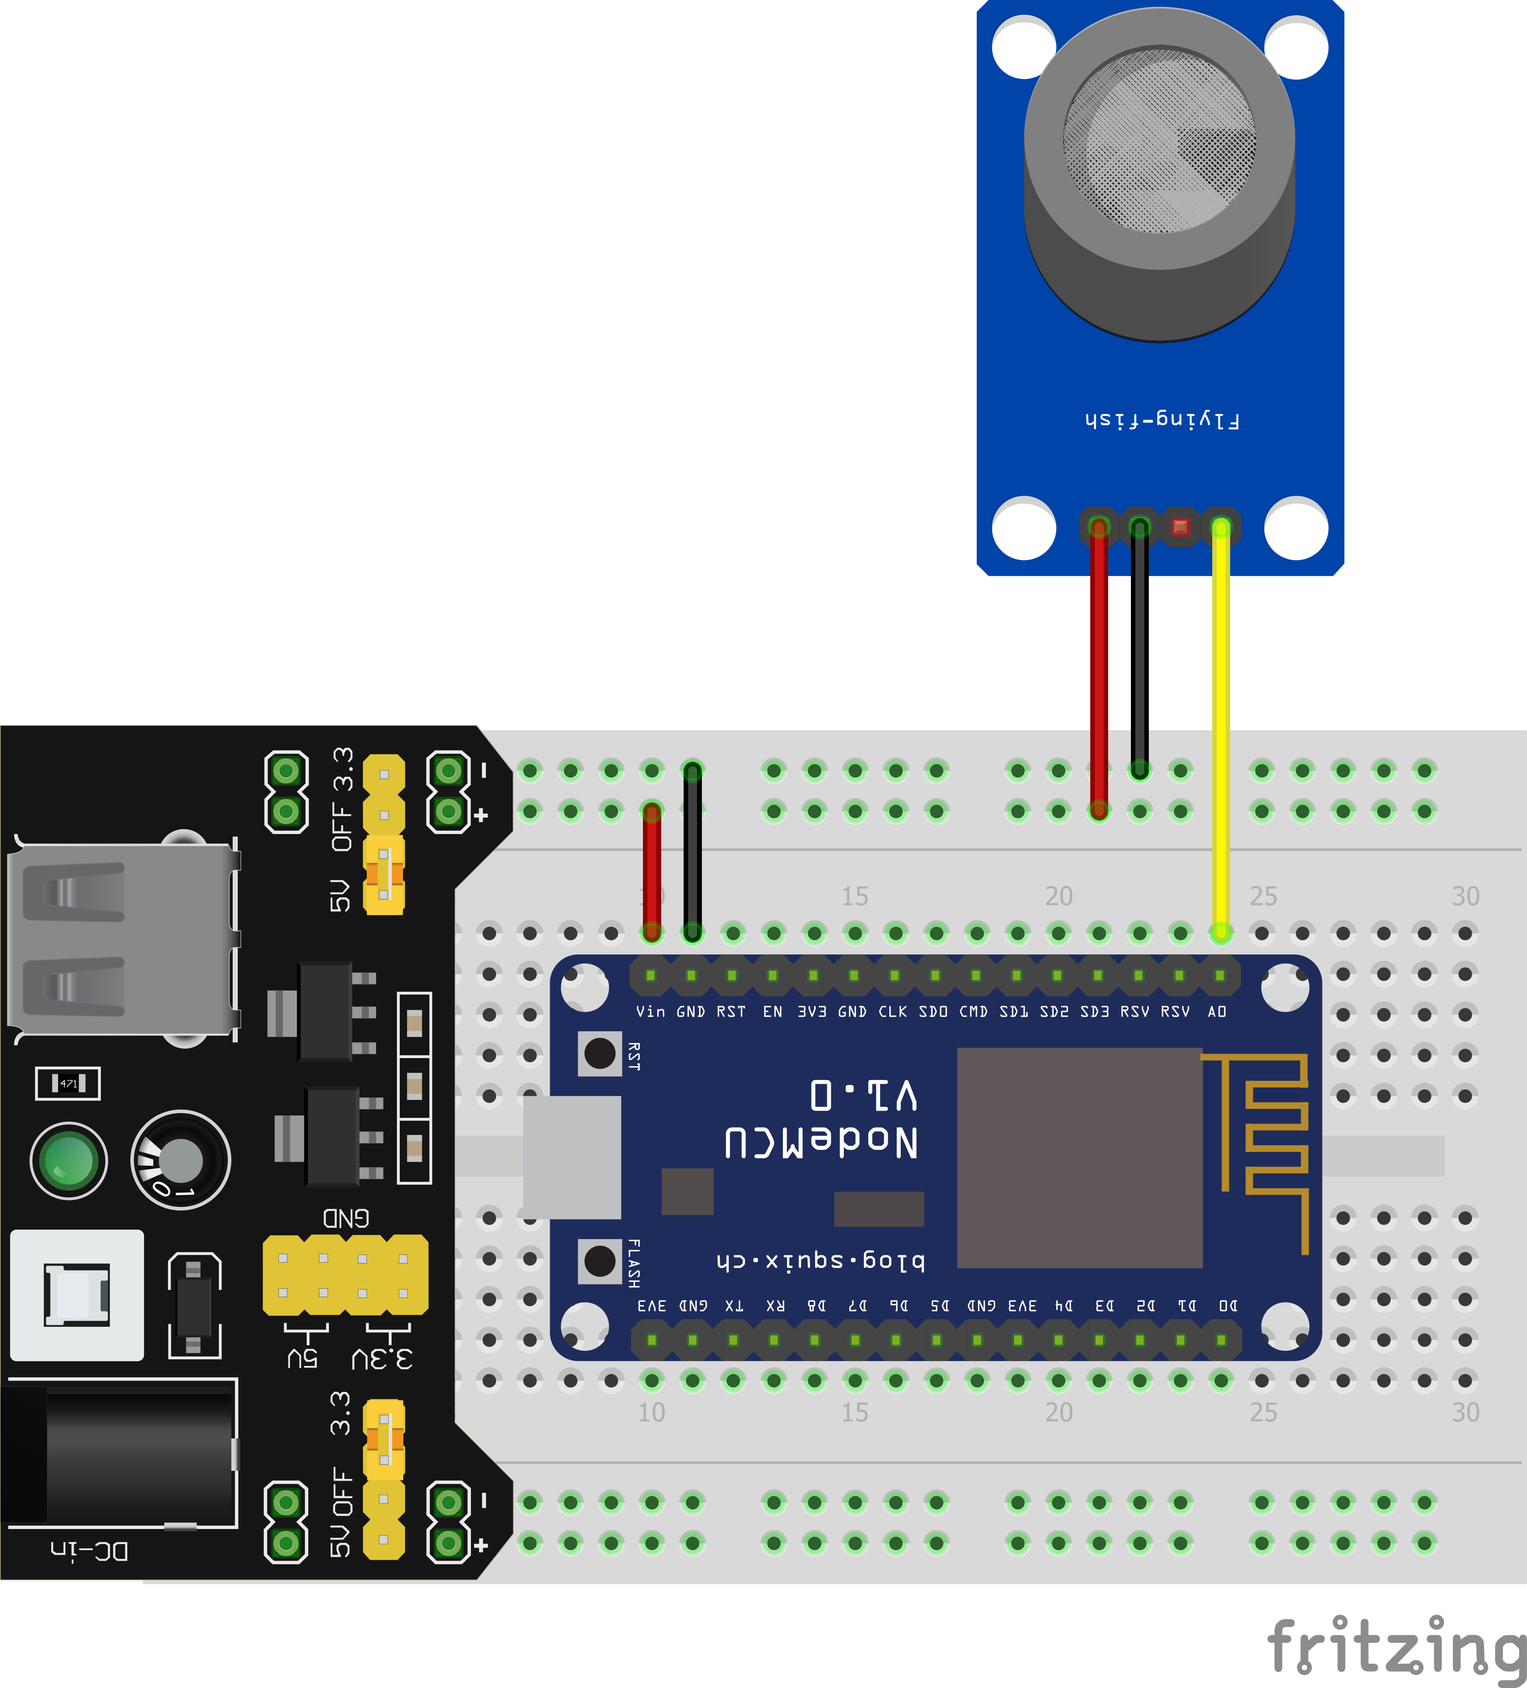
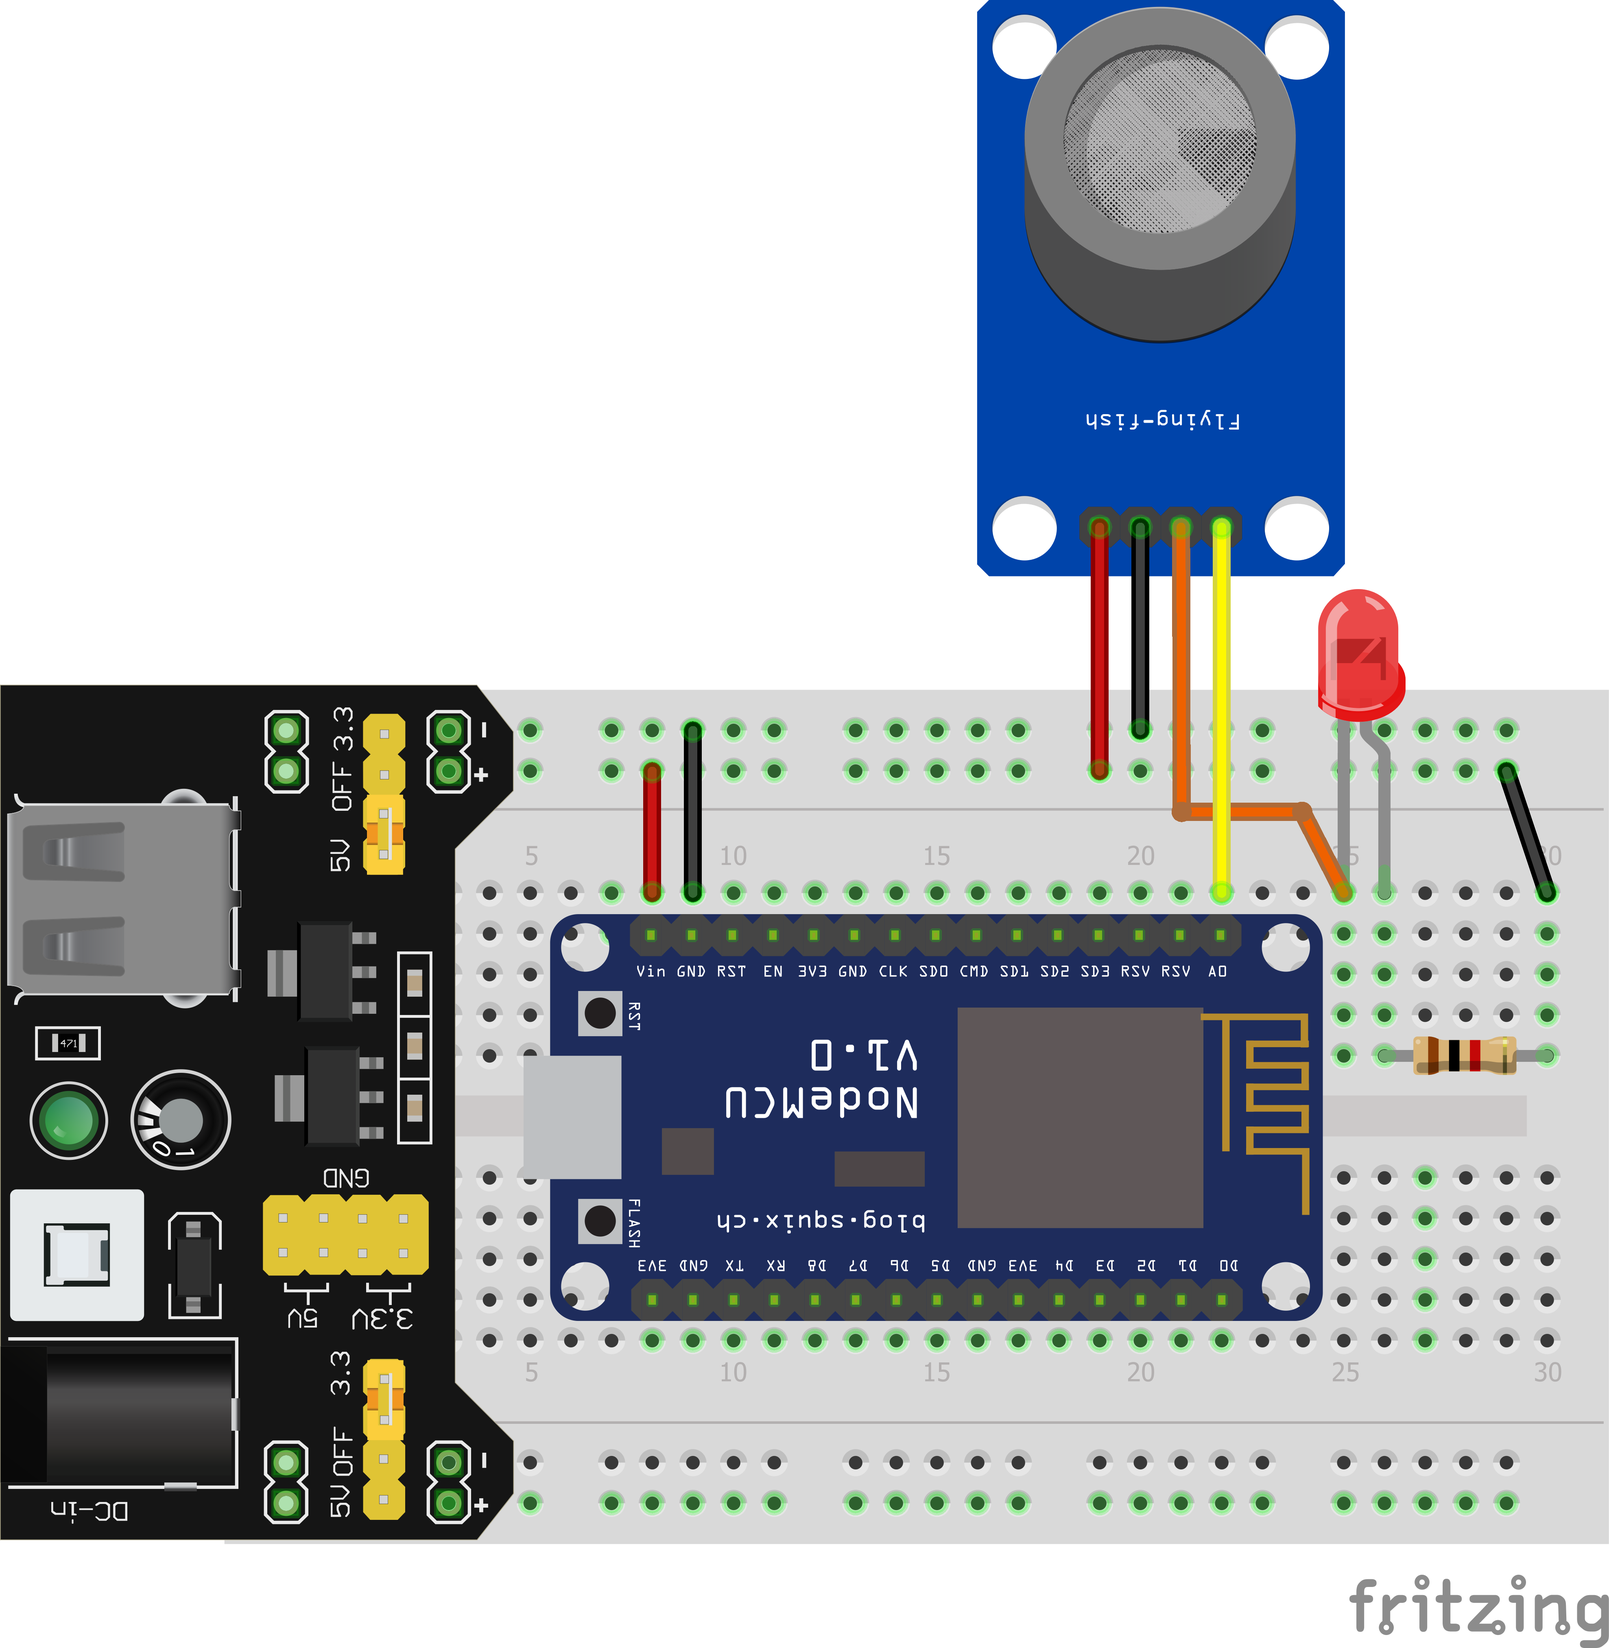
docs(MQ135): Add steps for sensor calibration and code for getting air quality in the documentation

Changed region(s): [[0.0, 0.0, 1.0, 0.9953]]

diff --git a/Writerside/topics/MQ135.md b/Writerside/topics/MQ135.md
@@ -6,43 +6,340 @@ switcher-label: Placa
 
 ## Descripción
 
-Los sensores MQ son una serie de sensores de gas que permiten detectar la presencia de diferentes gases en el ambiente,
-son sensores de bajo costo y fáciles de usar. El sensor MQ135 es un sensor de gas que permite detectar la presencia de
-gases como Amoniaco, Benceno, Vapor de Alcohol y Humo.
-
-![MQ135](MQ135.png) {border-effect="rounded" width="700" }
+Los sensores MQ son sensores de gas de bajo costo y fácil uso que permiten detectar la presencia de diferentes gases en el ambiente. El sensor MQ135, en particular, es capaz de detectar gases como amoníaco $(NH_3)$, benceno $(C_6H_6)$, alcohol, monoxido de carbo $(CO)$ y dióxido de carbono $(CO_2)$.
 
 ## Tipos comunes de sensores MQ
 
-- MQ-2: Detecta gases inflamables y humo.
-- MQ-3: Detecta alcohol, etanol y humo.
-- MQ-4: Detecta gas metano y gas natural.
-- MQ-5: Detecta gas natural.
-- MQ-6: Detecta gas de propano.
-- MQ-7: Detecta monóxido de carbono.
-- MQ-8: Detecta gas de hidrógeno.
-- MQ-9: Detecta gas de monóxido de carbono y gases combustibles.
-- MQ-135: Detecta amoniaco, benceno, vapor de alcohol y humo.
+- **MQ-2:** Detecta gases inflamables y humo.
+- **MQ-3:** Detecta alcohol, etanol y humo.
+- **MQ-4:** Detecta gas metano y gas natural.
+- **MQ-5:** Detecta gas natural.
+- **MQ-6:** Detecta gas de propano.
+- **MQ-7:** Detecta monóxido de carbono.
+- **MQ-8:** Detecta gas de hidrógeno.
+- **MQ-9:** Detecta gas de monóxido de carbono y gases combustibles.
+- **MQ-135:** Detecta amoniaco, benceno, CO y CO₂.
 
 ## Características del sensor MQ 135
 
-- Rango de detección de gases: Amoniaco, Benceno, Vapor de Alcohol y Humo.
-- Voltaje de operación: 5 V
-- Tiempo de calentamiento: 24 horas
-- Sensibilidad: ajustable
-- Rango de detección: 10 a 1000 ppm
-- Temperatura de operación: -10 a 50 °C
+- **Rango de detección de gases:** Amoniaco, Benceno, Vapor de Alcohol y Humo.
+- **Voltaje de operación:** 5 V
+- **Tiempo de calentamiento:** 24 horas
+- **Sensibilidad:** ajustable
+- **Rango de detección:** 10 a 1000 ppm
+- **Temperatura de operación:** -10 a 50 °C
+
+## Pinout del sensor MQ 135
+
+El sensor MQ 135 tiene 4 pines, los cuales son:
+
+- `A0`: Salida analógica.
+- `D0`: Salida digital.
+- `GND`: Conexión a tierra.
+- `VCC`: Conexión a 5 V.
+
+![MQ135](MQ135.png) {border-effect="rounded" width="500" }
+
+## Calibrar el sensor
+
+Los sensores MQ son electroquímicos y varían su resistencia cuando se exponen a determinados gases, internamente posee un calentador encargado de aumentar la temperatura interna y con esto el sensor pueda reaccionar con los gases provocando un cambio en el valor de la resistencia. El calentador dependiendo del modelo puede necesitar un voltaje entre 5 y 2 volts, el sensor necesita una resistencia de carga $(R_L)$ para cerrar el circuito y con este hacer un divisor de voltaje y obtener la relación de voltaje $(\frac{RS}{RO})$ en aire limpio.
+
+> Antes de calibrar, conecte el sensor a una fuente de 5 V y esperar un tiempo de calentamiento para que la salida sea estable y tenga las características que el fabricante muestra en sus [datasheet](https://uelectronics.com/wp-content/uploads/2018/01/SNS-MQ135.pdf "Link al datasheet del sensor MQ135"), dicho tiempo dependiendo del modelo puede ser entre 12 y 48 horas.
+
+
+### Calibración de la resistencia de carga $R_L$
+Para calibrar el sensor **MQ135**, primero es necesario determinar el valor de la resistencia de carga $R_L$, para esto se puede seguir los siguientes pasos:
+
+<procedure title="Pasos para obtener el valor de la resistencia de carga RL" id="resistencia-RL">
+    <step>Tomar el sensor MQ135 y volterarlo para ver la parte posterior donde se encuentra el potenciómetro.</step>
+    <img src="MQ135_potenciometro.jpg" border-effect="rounded" width="500" alt="Mq135_potenciometro"/>
+    <step>Poner la punta negativa del multímetro en el pin de GND y la punta positiva en el pin de A0.</step>
+    <step>Medir la resistencia del sensor y anotar el valor. En este caso, se obtuvo un valor de 750 Ω.</step>
+</procedure>
+
+### Calibración de la resistencia $R_O$ en aire limpio
+
+Una vez obtenido el valor de la resistencia $RL$ debemos obtener el valor de $RO$ en aire limpio, para esto se puede seguir los siguientes pasos:
+
+<procedure title="Pasos para obtener el valor de la resistencia RO en aire limpio" id="resistencia-RO">
+    <step>Conectar el sensor MQ135 a una fuente de 5 V y esperar un tiempo de calentamiento.</step>
+    <step>Estimar el valor de <math>\frac{RS}{RO}</math> en aire limpio, con ayuda de la curva característica del sensor MQ135. En este caso se obtuvo un valor aproximado de  <math>3.8 </math> </step>
+    <warning>
+        Es importante tener en cuenta que la curva característica del sensor MQ135 es representada de manera logarítmica.
+    </warning>
+    <img src="MQ135-curva.jpg" border-effect="rounded" width="500" alt="Mq135_curva"/>
+    <step> Conectar el sensor a la placa de desarrollo y subir el siguiente código para obtener el valor de la resistencia RO en aire limpio.</step>
+    <note>
+        Realizar la conexión a la placa como se puede ver en el esquema de conexión. Dejar correr el código en un lugar con aire limpio hasta obtener un valor estable para la resistencia RO. Es importante tener en cuenta que el valor de la resistencia RO puede variar dependiendo de la temperatura y humedad del ambiente.
+    </note>
+    <tabs>
+        <tab title="main.cpp">
+            <code-block lang="c++">
+                #include &lt;Arduino.h&gt;
+                &emsp;
+                #ifdef ESP8266_BOARD
+                    const int analog_PIN = A0;          // Pin analógico del ESP8266
+                    const int adc_resolution = 1024 - 1;// Resolución ADC de 10 bits
+                #elif defined(ESP32_BOARD)
+                    const int analog_PIN = 34;          // Pin analógico del ESP32
+                    const int adc_resolution = 4096 - 1;// Resolución ADC de 12 bits
+                #endif
+                &emsp;
+                float VCC = 5.0; // Voltaje de alimentación del sensor
+                float clean_air_factor = 3.85; // Relación de voltaje en aire limpio
+                &emsp;
+                void setup() {
+                    Serial.begin(115200);
+                }
+                &emsp;
+                void loop() {
+                    float RS_air;
+                    float RO;
+                    float avgReadings = 0;
+                    &emsp;
+                    // Lectura del sensor en el puerto analógico
+                    for (int i = 0; i &lt; 100; i++){
+                        avgReadings = avgReadings + analogRead(analog_PIN);
+                    }
+                    avgReadings = avgReadings / 100.0;  // promedio de 100 lecturas
+                    &emsp;
+                    // Conversión de lectura a voltaje
+                    float voltage = avgReadings * (VCC / adc_resolution);
+                    &emsp;
+                    // Cálculo de la resistencia RS en aire limpio
+                    RS_air = (VCC / voltage - 1);
+                    RO = RS_air/clean_air_factor;
+                    &emsp;
+                    Serial.print(&quot;sensor_volt = &quot;);
+                    Serial.print(voltage);
+                    Serial.print(&quot;\t&quot;);
+                    Serial.print(&quot;R0 = &quot;);
+                    Serial.println(RO);
+                    delay(1000);
+                }
+            </code-block>
+        </tab>
+        <tab title="platformio.ini">
+            <code-block lang="Plain Text">
+                [env:esp32]
+                platform = espressif32
+                board = esp32dev
+                framework = arduino
+                monitor_speed = 115200
+                build_flags = -D ESP32_BOARD
+                &emsp;
+                [env:esp8266]
+                platform = espressif8266
+                board = esp12e
+                framework = arduino
+                monitor_speed = 115200
+                build_flags = -D ESP8266_BOARD
+            </code-block>
+        </tab>
+    </tabs>
+    <step> Una vez obtenido el valor de la resistencia RO en aire limpio, es importante guardarlo para el cálculo de la concentración de <math>CO_2</math> en el aire.</step>
+</procedure>
+
+### Cálculo de la concentración de CO₂
+
+
+<procedure title="Pasos para calcular la concentración de CO₂ en el aire" id="concentracion-CO2">
+    <step> Obtener dos puntos de la curva característica del gas <math>CO_2</math>. En este caso, obtuvimos los siguientes valores <math>Y_1 = 1.4, X_1 = 10, Y_2 = 1.1, X_2 = 100 </math>.</step>
+    <step> Sustituir los valores obtenidos en la ecuación 1 </step>
+    <code-block lang="tex">
+        \begin{equation}
+            log(x) = \frac{(log(Y)-log(Y_1)) \cdot \frac{X_2}{X_1}}{log(Y_2)-log(Y_1)} + log(X_1)
+        \end{equation}
+    </code-block>
+    <step> Realizar el cálculo para obtener los coeficientes de la ecuación de correlación: </step>
+    <code-block lang="tex">
+        \begin{equation}
+            log(x) = -9.54745 \cdot log(Y) + 2.39597
+        \end{equation}
+    </code-block>
+    <step> Despejar x de la ecuación de correlación: </step>
+    <code-block lang="tex">
+        \begin{equation}
+            x = 116.6020682 \cdot (RS/RO)^{-2.769034857}
+        \end{equation}
+    </code-block>
+    <step> Obtener <math>RS</math> por división de voltaje: </step>
+    <code-block lang="tex">
+        \begin{equation}
+            RS = (\frac{VCC}{VoltageLeido} - 1) \cdot RL
+        \end{equation}
+    </code-block>
+</procedure>
+
+> Los pasos anteriores son necesarios para obtener la concentración de cualquier gas que se desee detectar, en este caso se realizó el cálculo para el gas $CO_2$. Los valores de los coeficientes de la ecuación de correlación se obtuvieron de la hoja de datos del sensor MQ135. Se puede ver la aplicación de estos pasos en el [código del proyecto](#code_MQ135-id).
+> {style="note"}
+
 
 ## Esquema de conexión para el ESP8266 {switcher-key="ESP8266"}
 
-El sensor se conecta a la placa de desarrollo ESP8266 en el pin analógico A0. A continuación se muestra el esquema de
-conexión del sensor MQ135 a la placa de desarrollo ESP8266.
+El sensor se conecta a la placa de desarrollo ESP8266 en el pin analógico A0. Se le agregó un led en el pin digital del sensor para indicar la alerta de calidad del aire. Es importanté conectar el positivo del led a una resistencia con dirección a VCC, esto debido a que cuando el sensor detecte un nivel de $CO_2$ peligroso, el nivel lógico del pin digital será 0 y el led se encenderá.
 
 ![MQ135_ESP8266](MQ135_ESP8266.png) {border-effect="rounded" width="500" thumbnail="true"}
 
 ## Esquema de conexión para el ESP32 {switcher-key="ESP32"}
 
-El sensor se conecta a la placa de desarrollo ESP32 en uno de los múltiples pines analógicos. A continuación se muestra
-el esquema de conexión del sensor MQ135 a la placa de desarrollo ESP32.
+El sensor se conecta a la placa de desarrollo ESP8266 en el pin analógico D34. Se le agregó un led en el pin digital del sensor para indicar la alerta de calidad del aire. Es importanté conectar el positivo del led a una resistencia con dirección a VCC, esto debido a que cuando el sensor detecte un nivel de $CO_2$ peligroso, el nivel lógico del pin digital será 0 y el led se encenderá.
 
 ![MQ135_ESP32](MQ135_ESP32.png) {border-effect="rounded" width="500" thumbnail="true"}
+
+
+## Código {id="code_MQ135-id"}
+
+El siguiente código permite medir la concentración de $CO_2$ en el aire con el sensor MQ135 y evaluar la calidad del aire en función de la concentración de $CO_2$. El código se puede cargar en una placa de desarrollo ESP8266 o ESP32.
+
+> Sustituír el valor de la resistencia $RO$ y $RL$ obtenidos en los pasos anteriores en el código.
+> {style="warning"}
+
+<tabs>
+    <tab title="main.cpp">
+        <code-block lang="c++">
+        /*
+         * MQ135 - Sensor de calidad de aire
+         * Autor: Luis Ángel Cruz Díaz
+         * Fecha:  17/11/2023
+         *
+         * Programa para medir la concentración de CO2 en el aire con un 
+         * sensor MQ135 y evaluar la calidad del aire en función de la 
+         * concentración de CO2. Este programa utiliza la curva característica 
+         * del sensor MQ135 para calibrar el sensor y obtener la concentración 
+         * de CO2 en partes por millón (ppm).
+         * 
+         * El sensor MQ135 se conecta con el ESP8266 de la siguiente manera:
+         * 
+         * ESP8266      MQ135       Power Supply
+         * A0-----------A0
+         * GND----------GND---------GND
+         *              VCC---------5V
+         * 
+         * El sensor MQ135 se conecta con el ESP32 de la siguiente manera:
+         * 
+         * ESP32        MQ135       Power Supply
+         * D34----------A0
+         * GND----------GND---------GND
+         *              VCC---------5V
+         */
+        &emsp;
+        #include &lt;Arduino.h&gt;
+        &emsp;
+        #ifdef ESP8266_BOARD
+            const int analog_PIN = A0;          // Pin analógico del ESP8266
+            const int adc_resolution = 1024 - 1;// Resolución ADC de 10 bits
+        #elif defined(ESP32_BOARD)
+            const int analog_PIN = 34;          // Pin analógico del ESP32
+            const int adc_resolution = 4096 - 1;// Resolución ADC de 12 bits
+        #endif
+        &emsp;
+        const float VCC = 5;    // Voltaje de alimentación del sensor MQ135
+        const float RL = 0.750; // Resistencia de carga del sensor MQ135
+        const float air_factor = 3.8;// Factor de aire limpio (RS/Ro)
+        float RO = 7.70;        // Resistencia del sensor en aire limpio
+        &emsp;
+        float temperature = 25; // Temperatura en grados Celsius
+        float humidity = 50;    // Humedad relativa en porcentaje
+        &emsp;
+        #define A 116.6020682   // Coeficiente A de la ecuación de correlación
+        #define B 2.769034857   // Coeficiente B de la ecuación de correlación
+        &emsp;
+        #define CORA .00035
+        #define CORB .02718
+        #define CORC 1.39538
+        #define CORD .0018
+        #define CORE -.003333333
+        #define CORF -.001923077
+        #define CORG 1.130128205
+        &emsp;
+        String evaluateAirQuality(float ppm) {
+            if (ppm &lt; 400) return &quot;Excelente&quot;;
+            else if (ppm &lt; 1000) return &quot;Buena&quot;;
+            else if (ppm &lt; 2000) return &quot;Moderada&quot;;
+            else if (ppm &lt; 5000) return &quot;Mala&quot;;
+            else return &quot;Peligrosa&quot;;
+        }
+        &emsp;
+        // Función para obtener el factor de corrección
+        float getCorrectionFactor(float tem, float hum) {
+            if(tem &lt; 20){
+                return CORA * tem * tem - CORB * tem + CORC - (hum-33.)*CORD;
+            } else {
+                return CORE * tem + CORF * hum + CORG;
+            }
+        }
+        &emsp;
+        // Función para obtener la resistencia del sensor MQ135
+        float getRS(int samples){
+            float avgReadings = 0;
+            // Leer el sensor en el puerto analógico y obtener el promedio
+            for (int i = 0; i &lt; samples; i++) {
+                avgReadings += analogRead(analog_PIN);  
+                delay(10);
+            }
+            avgReadings /= samples;
+            // Conversión de lectura a voltaje
+            float voltage = avgReadings * (VCC / adc_resolution);
+            // Cálculo de resistencia RS
+            float RS = (VCC / voltage - 1) * RL;
+            return RS;
+        }
+        &emsp;
+        // Función para calibrar la resistencia RO
+        void calibrateRO() {
+            RO = getRS(10000) / air_factor;
+            Serial.printf(&quot;RO calibrado: %.2f Ω\n&quot;, RO);
+        }
+        &emsp;
+        // Función para leer la concentración de CO2 en ppm
+        float readCO2PPM() {
+            float RS = getRS(100);  // Obtener la resistencia RS
+            // Corregir la resistencia RS
+            float RSCorrected = RS / getCorrectionFactor(temperature, humidity);
+            // Calcular la concentración en ppm con la ecuación de correlación
+            float ppm = A * pow((RSCorrected/RO), -B); 
+            return ppm;
+        }
+        &emsp;
+        void setup() {
+            Serial.begin(115200);
+            Serial.println(&quot;Iniciando sensor MQ135...&quot;);
+            delay(10000);
+            Serial.println(&quot;Calibrando sensor MQ135...&quot;);
+            //calibrateRO();
+        }
+        &emsp;
+        void loop() {
+            float ppm = readCO2PPM();
+            if (ppm &gt; 0) {
+                Serial.printf(&quot;Concentración de CO2: %.2f ppm\n&quot;,ppm);
+                String airQuality = evaluateAirQuality(ppm);
+                Serial.printf(&quot;Calidad del aire: %s\n&quot;, airQuality.c_str());
+            }
+            Serial.println(&quot;--------------------&quot;);
+            delay(500);
+        }
+        </code-block>
+    </tab>
+    <tab title="platformio.ini">
+        <code-block lang="Plain Text">
+            [env:esp32]
+            platform = espressif32
+            board = esp32dev
+            framework = arduino
+            monitor_speed = 115200
+            build_flags = -D ESP32_BOARD
+            &emsp;
+            [env:esp8266]
+            platform = espressif8266
+            board = esp12e
+            framework = arduino
+            monitor_speed = 115200
+            build_flags = -D ESP8266_BOARD
+        </code-block>
+    </tab>
+</tabs>
+
+> Se realizó un proyecto en PlatformIO para leer la concentración de $CO_2$ en el aire con el sensor MQ135, en la documentación se muestra los pasos para calibrar el sensor y el código para obtener la concentración de $CO_2$ en el aire.
+> {style="note"}
